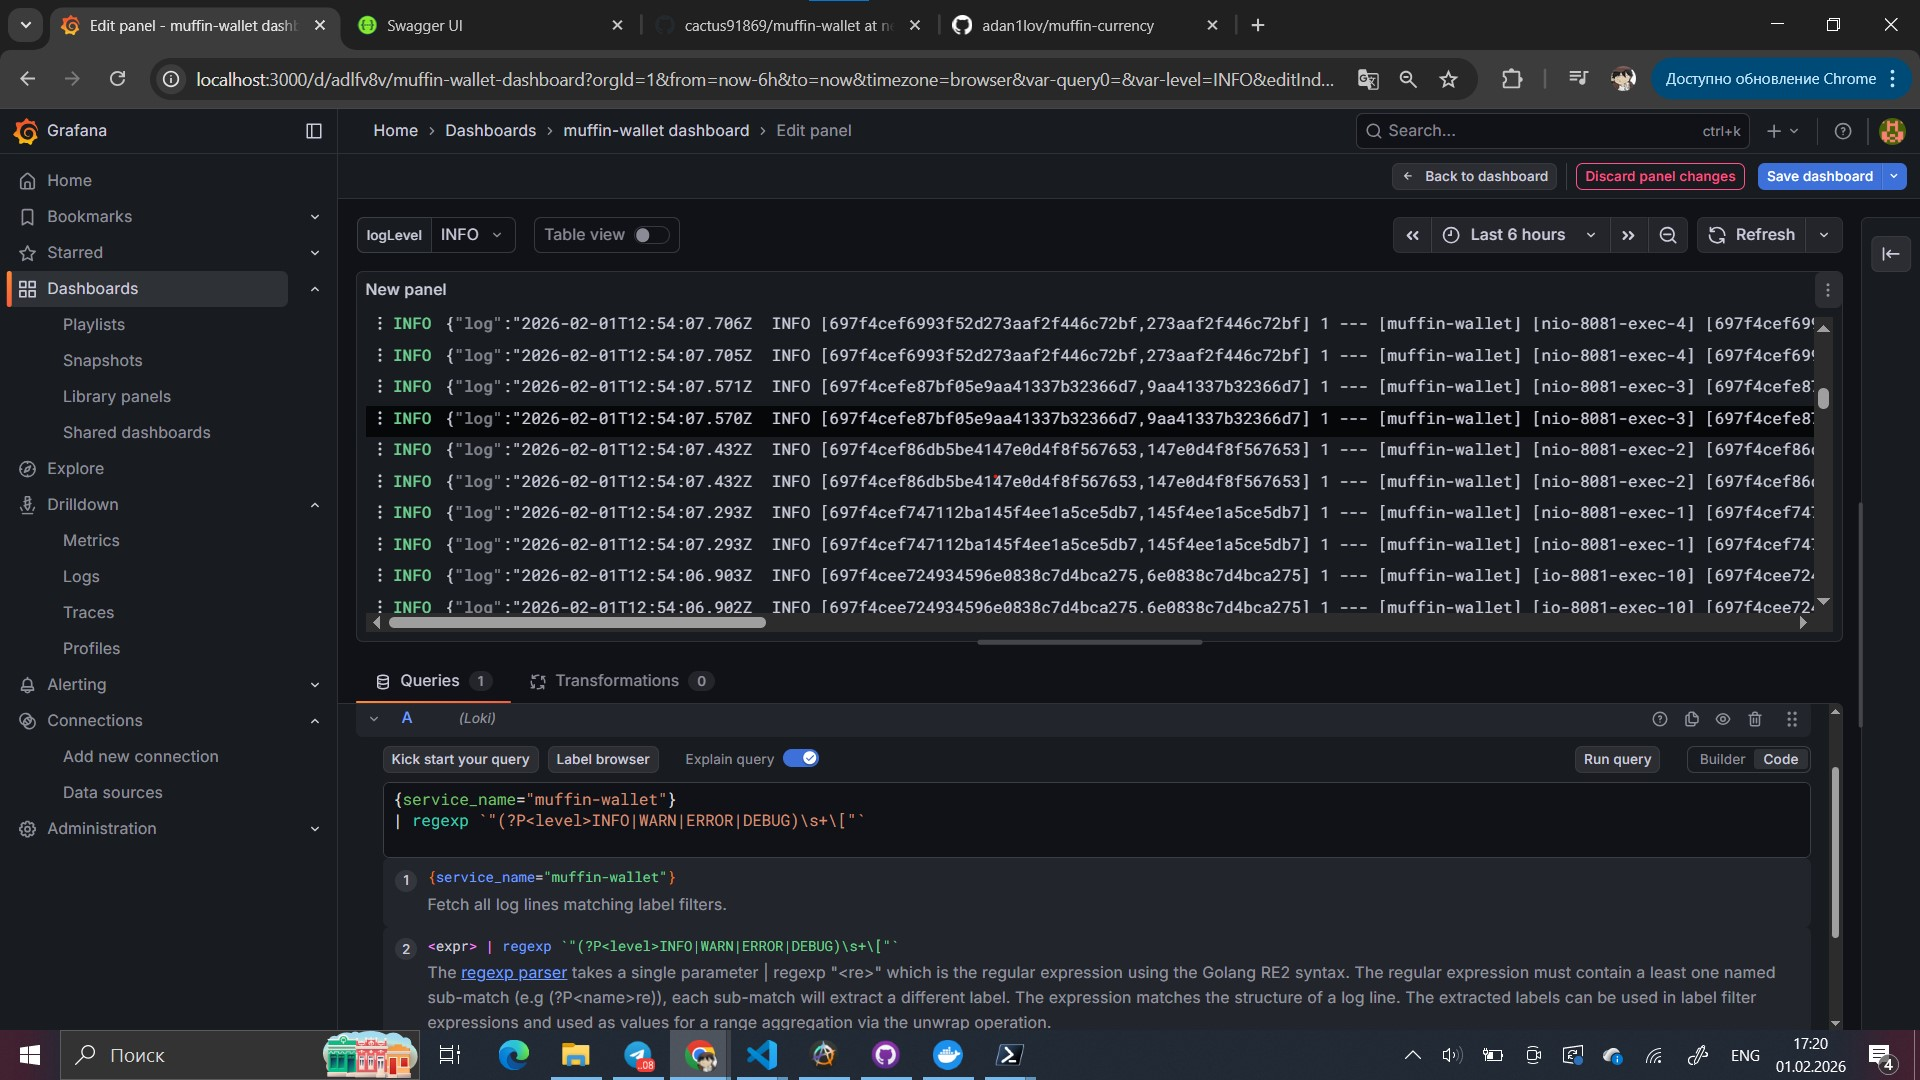
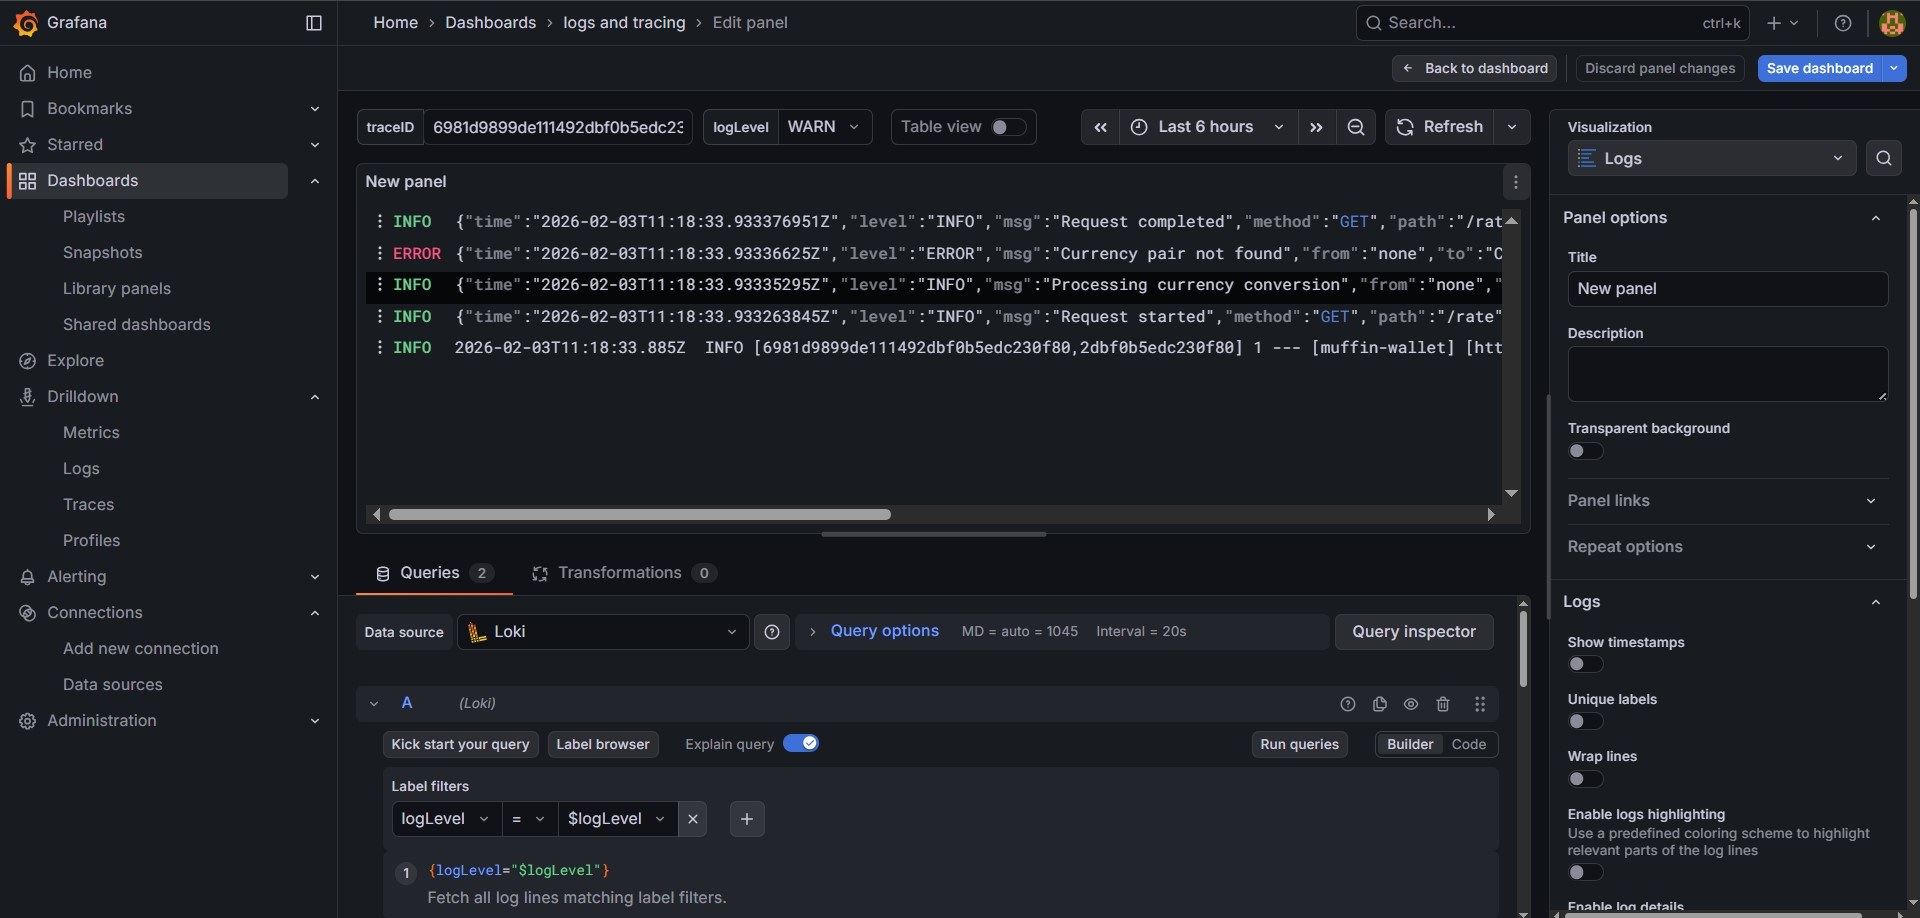
update hw10

diff --git a/README.md b/README.md
@@ -5,15 +5,28 @@
 - [x] Обеспечьте сбор логов из приложения muffin-wallet. 
 - [x] Обеспечьте сбор трейсов системы. 
 
-Что было сделано: 
-1) развернуты в кубере grafana, loki, promtail, zipkin
-2) собраны новые images и опубликованы в докер хаб
-3) Развернуты muffin wallet, muffin currency
+## Что было сделано:
 
-Запустить minikube.
-
-Зайти в директорий local-env/helm запустить командой helmfile sync или helmfile apply.
-Проверить, что запустились все поды в неймспейсах: muffin и monitoring
-Зайти в Grafana и там создать дэшборд (соединения прописаны в yaml файлах графаны) 
+1) развернуты в кубере grafana, loki, zipkin
+2) развернута бд в докере
+3) собраны новые images и опубликованы в докер хаб
+4) развернуты muffin wallet, muffin currency с promtail sidecar
+5) настроена графана с соединением с Локи и Зипкин
+6) создан дэшборд с поиском по logLevel, traceId 
 
 
+## Как запустить:
+
+* Запустить minikube. minikube start
+* Запустить докер компоуз из директории "/local-env/helm". docker compose up -d 
+* Зайти в директорий local-env/helm запустить командой helmfile sync или helmfile apply.
+* Проверить, что запустились все поды в неймспейсах: muffin и monitoring
+* Сделать порт форвард для графаны, чтобы затем ее открыть через localhost. kubectl port-forward -n monitoring svc/grafana 3000:3000
+* Зайти в Grafana (login: admin, password: admin) и там создать дэшборд (соединения прописаны в yaml файлах графаны) 
+
+Сортировка по labelId, logLevel 
+![alt text](logs1.jpg)
+![alt text](logs2.jpg)
+
+Лейблы из зипкина
+![alt text](traces1.jpg)
